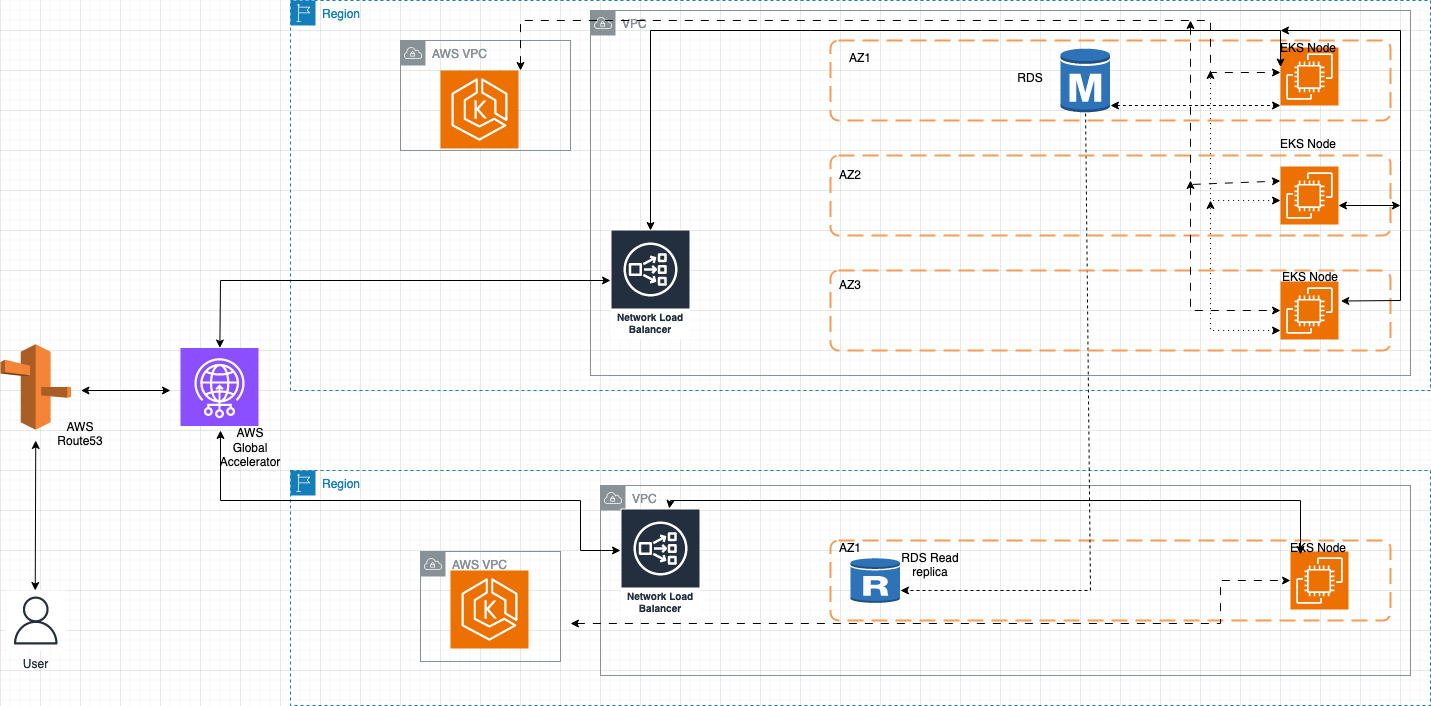
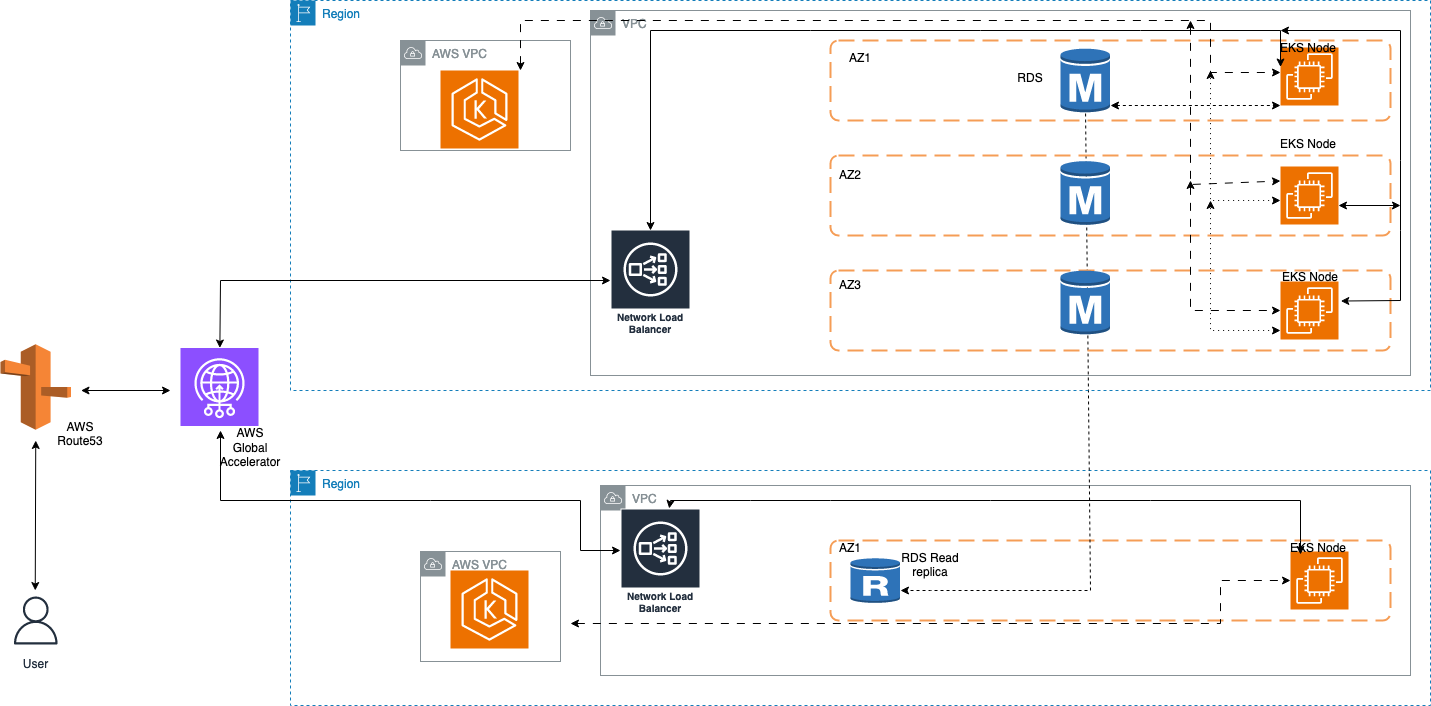
update readme

Changed region(s): [[0.7379, 0.3739, 0.7994, 0.4986], [0.7379, 0.2181, 0.7994, 0.3428]]

diff --git a/README.md b/README.md
@@ -7,7 +7,11 @@
 
 ### Why AWS?
 
-* **Scalability:** AWS provides elastic scaling capabilities, allowing you to easily scale resources up or down to handle varying workloads. This is crucial for a microservices architecture that requires dynamic scaling based on demand. (This is provided in almost all the cloud service providers)
+* Easy to use
+* Reliable
+* Community adoption
+* wide range of services that it provides.
+* Scalability
 
 * **Architecture**
 ![Architecture Diagram](images/aws.png)
@@ -271,17 +275,27 @@ Please refer to `code_samples/terraform/eks.tf` for code sample.
 4.Namespaces:
 
 * Organize microservices using Kubernetes namespaces for isolation and resource management.
+
 5.Secrets Management
+
 * Store sensitive information like API keys, database credentials, and environment-specific configuration in Kubernetes secrets.
+
 6.Helm Charts (Optional)
+
 * Create Helm charts for your microservices to simplify deployment, configuration, and scaling.
 * Helm allows you to templatize Kubernetes manifest files and manage releases.
+
 7.Scaling
+
 * Configure Horizontal Pod Autoscaling (HPA) based on metrics like CPU and memory usage to scale your microservices dynamically.
+
 8.Rolling Updates and Rollbacks:
+
 * Implement rolling updates to deploy new versions of your microservices without downtime.
 * Have a rollback strategy in place in case of issues with a new release. (This depends on the rollingUpdate parameters (maxUnavailable specifically) that you have specified. Kubernetes by default sets the value to 25%.)
+
 9.Security:
+
 * Follow security best practices, such as RBAC (Role-Based Access Control), PodSecurityPolicies, and network policies, to secure the cluster.
 * Regularly apply security updates and patches to the container images and Kubernetes components.
 
@@ -344,9 +358,9 @@ Replicate the same setup in failover region.
 
 * Configuration Drift Detection: Detect and rectify any configuration changes that deviate from the expected state.
 
-9.Disaster Preparedness Testing:
+9.Disaster Recovery Testing:
 
-* Disaster Simulation: Conduct drills to prepare for real disasters, like AZ/region outages.
+* Disaster Simulation: Conduct drills to prepare for real disasters, like AZ/region outages and verify if the strategy in place works.
 
 ## Monitoring Approach
 
@@ -363,6 +377,16 @@ Replicate the same setup in failover region.
 * Visualize and Monitor:
   * Use Grafana to create dashboards that visualize the data collected by Prometheus. Monitor the health and performance of the Kubernetes cluster, applications, and services through these dashboards.
   * Configure alerting within Grafana to receive notifications when predefined alerting rules are triggered.
+
+## Configuration Management
+
+The proposed solution doesn't require a configuration management tool.
+
+## Single point of Failures
+
+* Route53
+* Global accelerator
+* Even though the RDS instance is spanned to multi AZ and has a read replica in fail over zone, because of the limitation of Postgres RDS, application cannot write during primary region failure.
 
 ## References
 * [AWS RDS](https://docs.aws.amazon.com/rds/)
